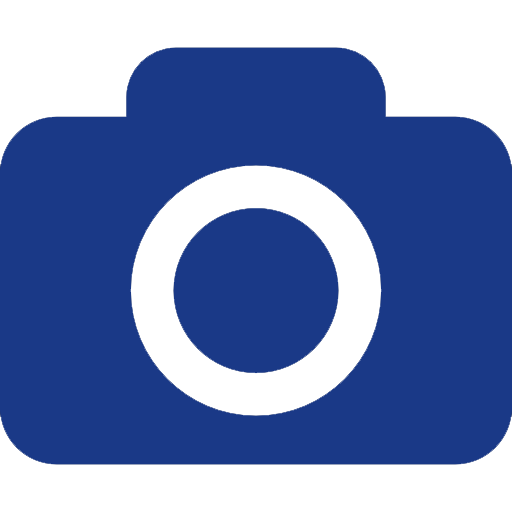
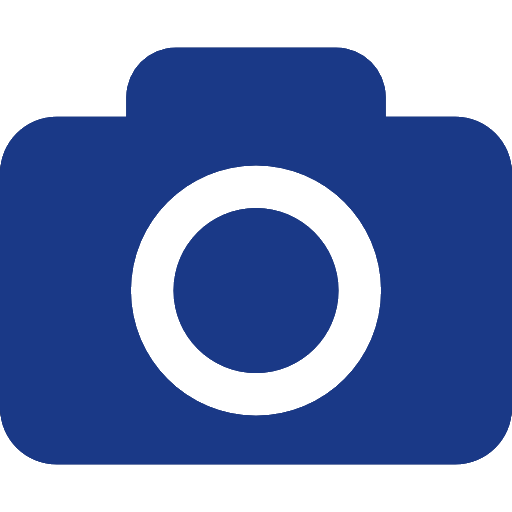
added style for the camera button in new post to become bigger on hover.

Changed region(s): [[0.5938, 0.4375, 0.625, 0.4688], [0.375, 0.4375, 0.4062, 0.4688]]

diff --git a/public/stylesheets/custom_k.css b/public/stylesheets/custom_k.css
@@ -154,6 +154,7 @@ nav > ul > li > a.custom-menu-icon {
     float: left;
     text-align: center;
     margin-right: 20px;
+    padding: 0px 5px 5px 0px;
 }
 
 #main-page-bcgrnd-not-loggedin > ul > li:last-of-type {
@@ -171,12 +172,14 @@ nav > ul > li > a.custom-menu-icon {
     font-weight: bold;
     font-size: 20px;
     transition: background 0.4s ease-in-out;
+    box-shadow: 1px 1px 1px 1px #A9A9A9;
 }
 
 .btn-cstm-style:hover {
     background-color: #E8E8E8;
     color: #3b5998;
     text-decoration: none;
+    box-shadow: 1px 1px 1px 1px #A9A9A9;
     /*transition: color 0.7s;*/
     /*transition: background-color 0.7s;*/
     /*
@@ -868,16 +871,24 @@ li.active-section #view-tabs-in-photos > ul > li.active-tab-section .cntnr-photo
 .bottom-line-post>label{
     margin-bottom:0;
     width: 4%;
+    position: relative;
 }
 
 .add-photo-post {
     background: url("./../images/add-photo-btn.png");
-    background-size: 100%;
+    background-size: 30px 30px;
     /*padding-bottom: 100%;*/
-    width: 100%;
     /*height: 100%;*/
     background-repeat: no-repeat;
     cursor: pointer;
+
+/*for camera button to move*/
+    background-position: center;
+    width: 35px;
+    transition: all 0.2s ease-in-out;
+}
+.add-photo-post:hover {
+    background-size: 35px 35px;
 }
 
 .add-photo-post input[type="file"] {
